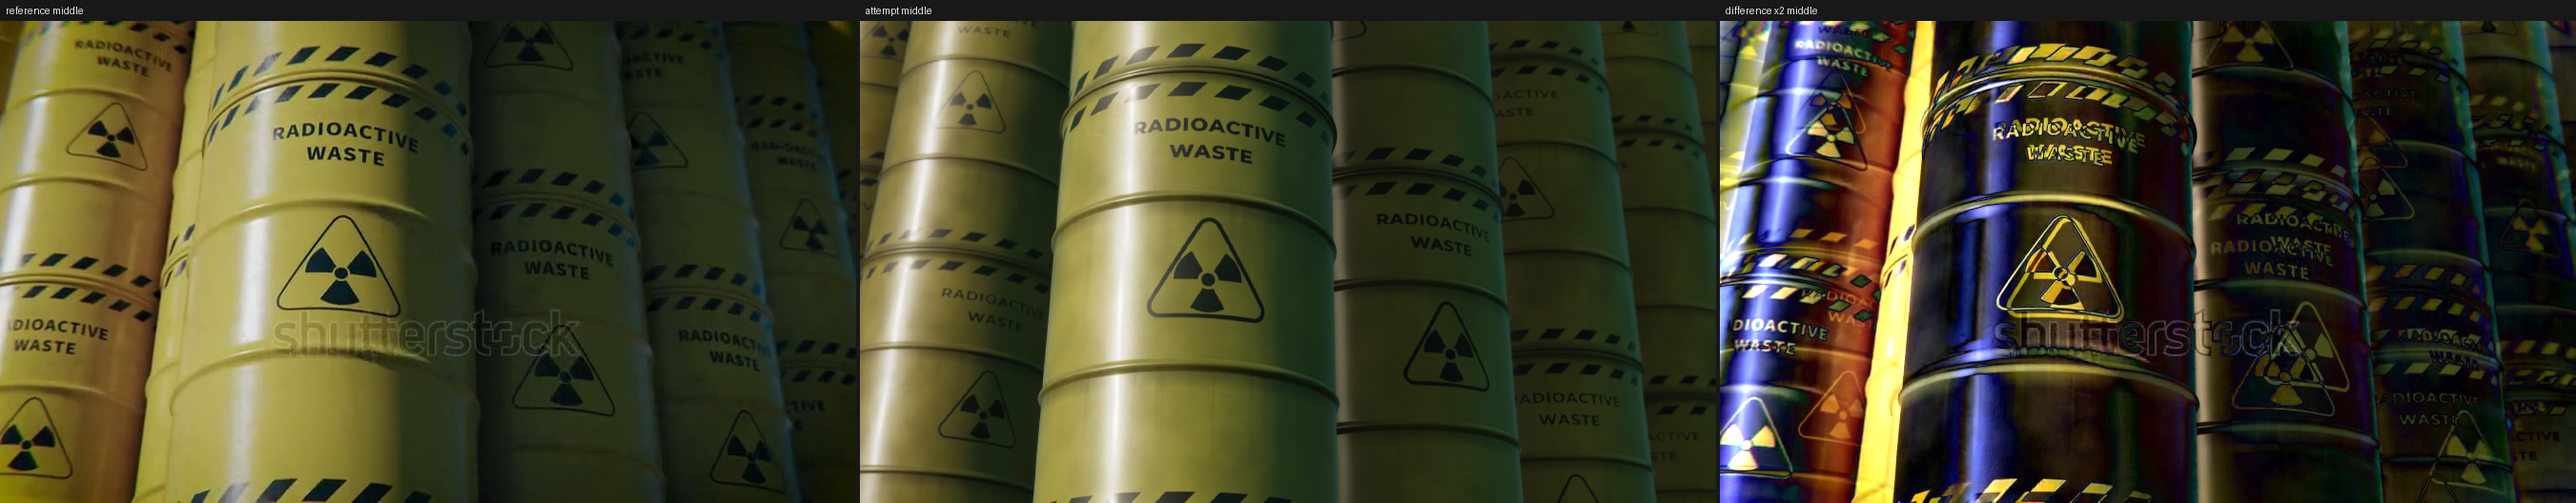
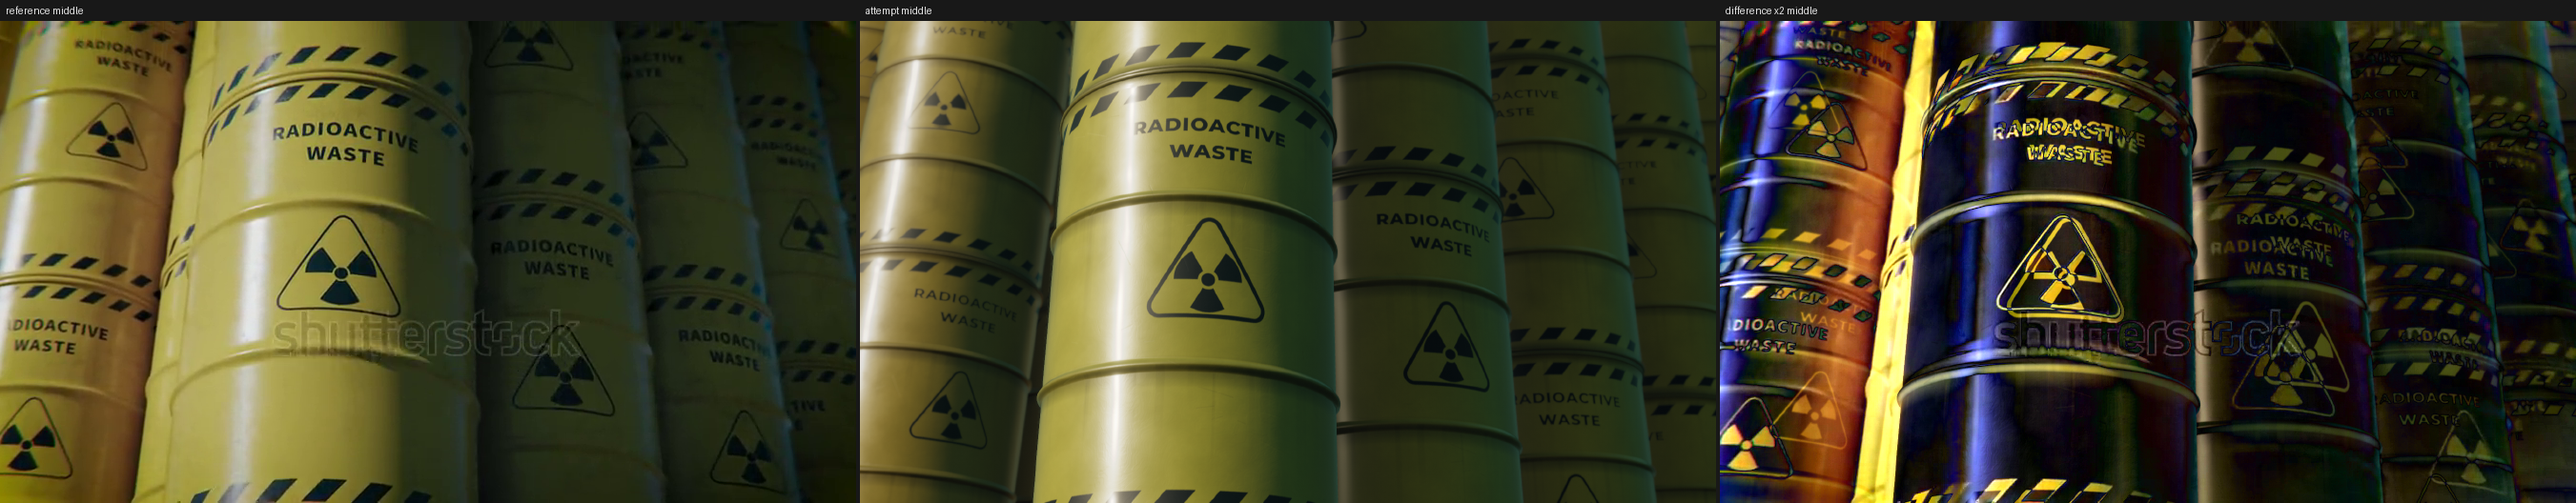
Barrels: final look fixes from the third visual review
Warmer fill and back-row paint, lighter dirt, sunlit sliver stack,
left edge closed by a far stack, slightly taller hoops.

Claude-Session: https://claude.ai/code/session_016jjL29YXQo89hH8jtpHEX7

diff --git a/hazard-barrels/src/config.ts b/hazard-barrels/src/config.ts
@@ -39,8 +39,8 @@ export const PALETTES: Record<Variant, Palette> = {
     grime: "#3a2c10",
     skyZenith: "#066a7c",
     fillSky: "#3a7c74",
-    fillHorizon: "#5f8a72",
-    ground: "#30381c",
+    fillHorizon: "#6a8a6c",
+    ground: "#35391b",
     haze: "#16242a",
   },
   // Version 2: the one change - the palette. Turquoise drums, cream markings, amber dusk sky.
@@ -74,7 +74,7 @@ export const MARKINGS = {
   letterSpacingEm: 0.035,
   textLine1Y: 0.125,
   textLine2Y: 0.182,
-  stripeBandFromEnd: [0.03, 0.061],
+  stripeBandFromEnd: [0.029, 0.064],
   stripeLength: 0.05,
   stripePitch: 0.092,
   stripeSlant: 0.03,
@@ -93,12 +93,12 @@ export const LAYOUT = {
   /** stacks along the lit face (to the left of the hero stack) */
   rowLeft: 3,
   /** gap from the hero stack to the row behind it on the left (wider than `spacing`, so a third stack shows in the wedge between them) */
-  leftSpacing: 1.19,
-  /** extra stacks as [x, z, drop]: one seen through the wedge between the hero stack and the
-   *  leaning row, one closing the left edge of the frame (lower, so sky shows above it at the end) */
+  leftSpacing: 1.245,
+  /** extra stacks as [x, z, drop]: one seen (sunlit) through the wedge between the hero stack and
+   *  the leaning row, and one far back that closes the left edge of the frame without shading it */
   extraStacks: [
     [-0.66, -1.75, 0],
-    [-1.16, -1.05, 0.55],
+    [-1.675, -2.05, 0],
   ] as [number, number, number][],
   /** stacks further apart than this do not shade or light each other */
   neighbourReach: 1.4,
@@ -107,19 +107,19 @@ export const LAYOUT = {
   /** stacks along the shadowed face (receding to the right) */
   rowRight: 9,
   /** direction of each face in the ground plane, degrees (0 = +x, 90 = away from camera) */
-  leftAngleDeg: 130.2,
+  leftAngleDeg: 133,
   rightAngleDeg: 44.3,
   /** how far a drum's markings may turn away from the camera, degrees */
   /** shade and warmth of the paint on the rows behind the hero row (1 = same as hero) */
-  backRowShade: 0.84,
-  backRowWarmth: 0.87,
+  backRowShade: 0.9,
+  backRowWarmth: 0.8,
   /** the rows behind lean a little towards the hero stack (degrees), pivoting at this height */
   backRowLeanDeg: 2.6,
   leanPivotY: 2.4,
   /** far stacks of the hero row stand this much lower (uneven ground), so their tops show at the end */
   farRowDrop: 0.3,
   /** rolling hoop and rim bead sizes */
-  hoopHeight: 0.007,
+  hoopHeight: 0.009,
   hoopHalfWidth: 0.014,
   rimBead: 0.006,
   facingJitterDeg: 34,

diff --git a/hazard-barrels/src/look.ts b/hazard-barrels/src/look.ts
@@ -10,7 +10,7 @@ export const LIGHT = {
   /** low warm sun from camera-left: the key light */
   key: {
     color: "#ffe9c4",
-    intensity: 1.8,
+    intensity: 1.88,
     /** horizontal angle from the camera axis towards camera-left, degrees */
     azimuthDeg: 52,
     elevationDeg: 22,
@@ -22,7 +22,7 @@ export const LIGHT = {
     shadowMapSize: 2048,
   },
   /** image-based sky light (procedural gradient sky, PMREM filtered) */
-  env: { intensity: 0.58, sunGlow: 2.4, stripWidthDeg: 6.5, stripHeightDeg: 16 },
+  env: { intensity: 0.52, sunGlow: 2.4, stripWidthDeg: 6.5, stripHeightDeg: 16 },
   /** how strongly neighbouring drums block the sky light (analytic occlusion) */
   occlusion: { strength: 0.96, power: 1.2 },
   /** paint-coloured light bounced between drums inside the stack */
@@ -65,8 +65,8 @@ export const GRADE: GradeSettings = {
   toneMapping: "aces",
   contrast: 1.0,
   pivot: 0.4,
-  saturation: 0.8,
-  lift: [0.014, 0.024, 0.024],
+  saturation: 0.86,
+  lift: [0.008, 0.024, 0.038],
   gamma: [1.0, 1.0, 1.0],
   gain: [1.0, 1.0, 1.0],
   shadowTint: [0.008, 0.002, 0.0],

diff --git a/hazard-barrels/src/scene/barrelTextures.ts b/hazard-barrels/src/scene/barrelTextures.ts
@@ -172,13 +172,13 @@ export const buildBarrelTextures = (palette: Palette): BarrelTextures => {
     const g = c.createRadialGradient(bx, by, 0, bx, by, br);
     g.addColorStop(0, palette.grime);
     g.addColorStop(1, "rgba(0,0,0,0)");
-    c.globalAlpha = range(rnd, 0.04, 0.13);
+    c.globalAlpha = range(rnd, 0.02, 0.07);
     c.fillStyle = g;
     for (const ox of [0, -TEX_W, TEX_W]) c.fillRect(bx - br + ox, by - br, br * 2, br * 2);
   }
-  c.globalAlpha = 0.2;
+  c.globalAlpha = 0.12;
   c.drawImage(large, 0, 0, TEX_W, TEX_H);
-  c.globalAlpha = 0.09;
+  c.globalAlpha = 0.05;
   c.drawImage(medium, 0, 0, TEX_W, TEX_H);
   c.globalAlpha = 0.02;
   c.drawImage(fine, 0, 0, TEX_W, TEX_H);

diff --git a/tools/region-colours.py b/tools/region-colours.py
@@ -1,0 +1,14 @@
+#!/usr/bin/env python3
+"""Mean paint colour (brightest 60% of pixels, i.e. without ink) of named regions: reference vs attempt.
+usage: tools/region-colours.py <ref.png> <attempt.png> name:x0,y0,x1,y1 [...]   (pixels at 898x506)"""
+import colorsys, sys
+import numpy as np
+from PIL import Image
+a = np.asarray(Image.open(sys.argv[1]).convert("RGB").resize((898, 506), Image.BOX)).astype(float)
+b = np.asarray(Image.open(sys.argv[2]).convert("RGB").resize((898, 506), Image.BOX)).astype(float)
+def paint(c):
+    l = c @ np.array([0.2126, 0.7152, 0.0722]); p = c[l >= np.percentile(l, 40)].mean(0)
+    h, s, _ = colorsys.rgb_to_hsv(*(p / 255)); return "(%3d,%3d,%3d) hue %3.0f sat %.2f" % (p[0], p[1], p[2], h * 360, s)
+for spec in sys.argv[3:]:
+    n, r = spec.split(":"); x0, y0, x1, y1 = [int(v) for v in r.split(",")]
+    print(f"{n:18s} ref {paint(a[y0:y1, x0:x1].reshape(-1, 3))}   attempt {paint(b[y0:y1, x0:x1].reshape(-1, 3))}")
